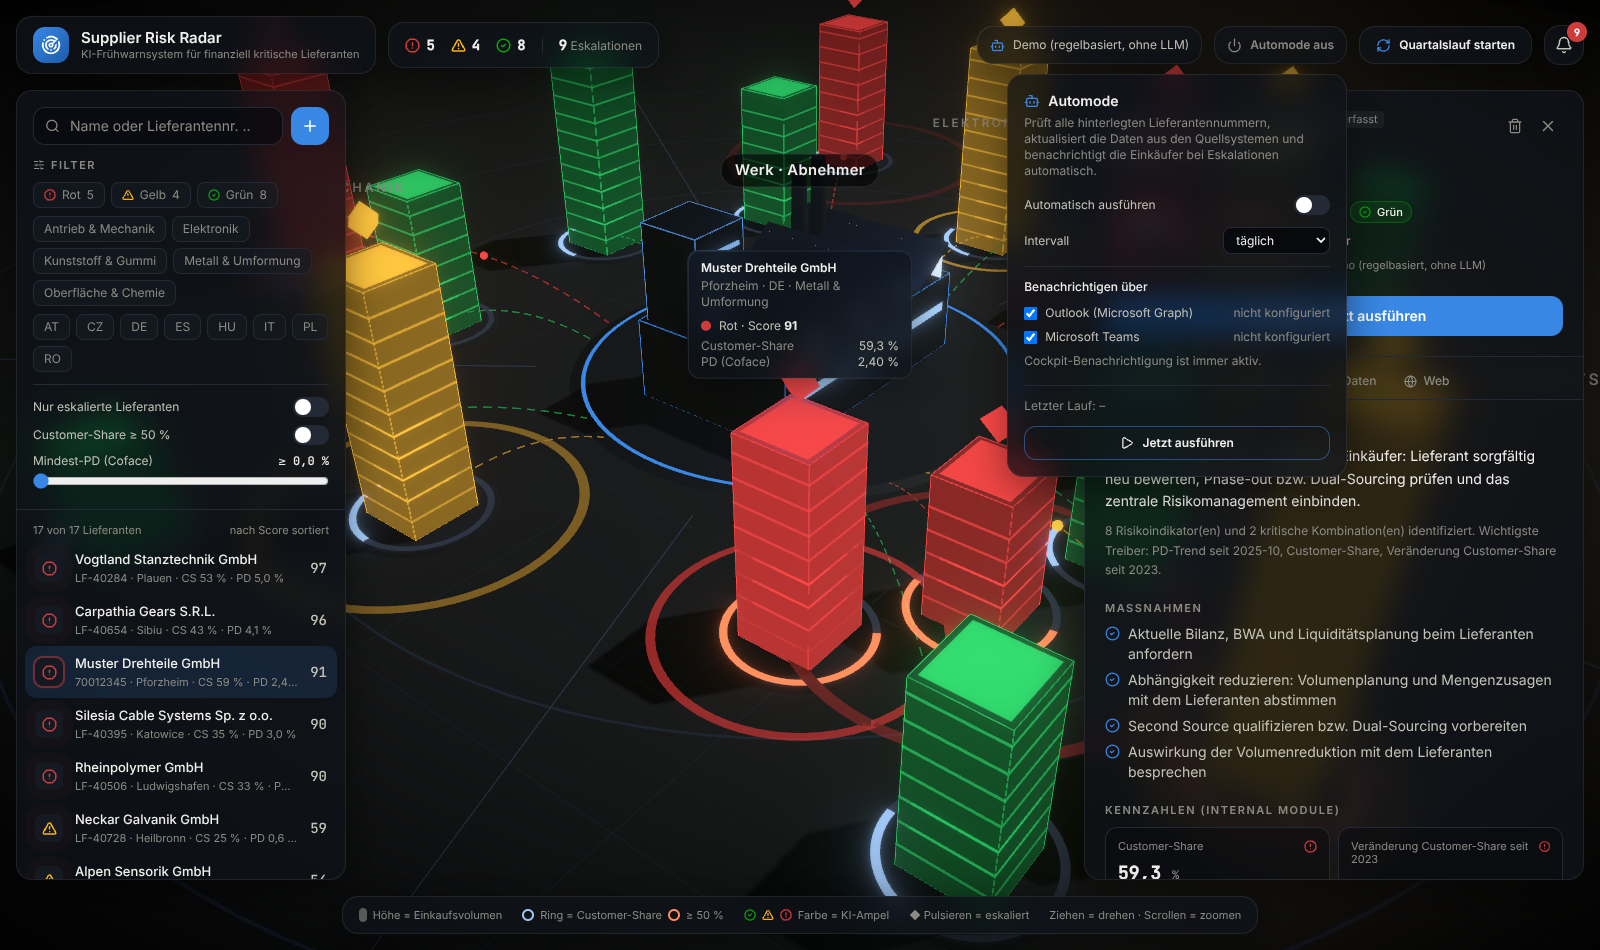
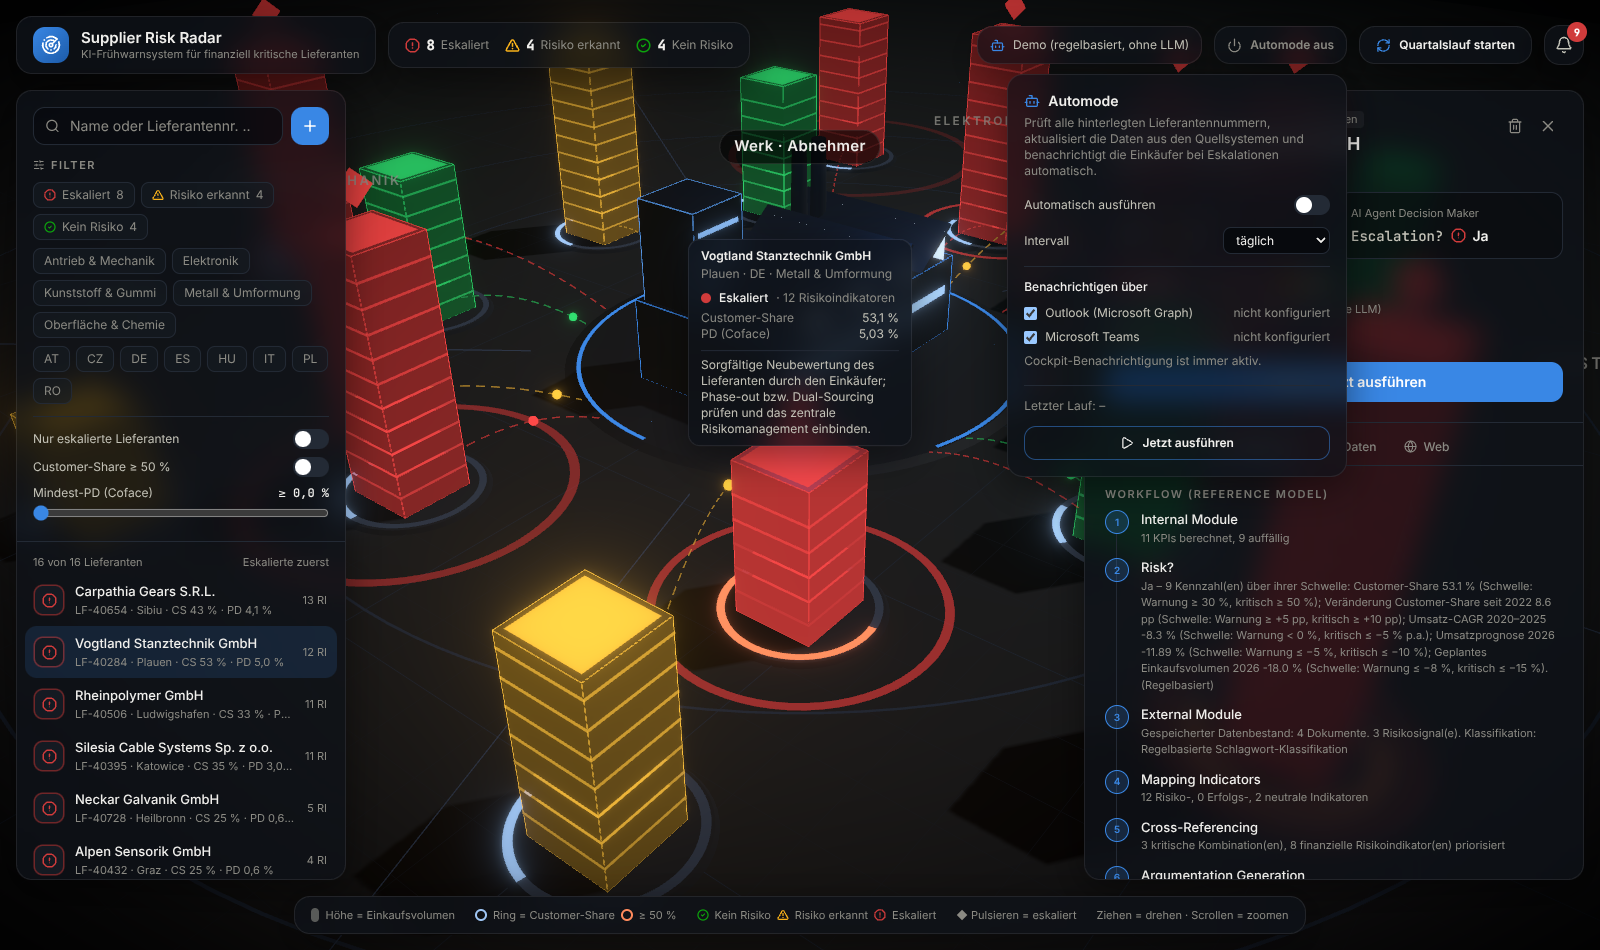
Translate README to English and refresh screenshots without score
Claude-Session: https://claude.ai/code/session_01H4xoAewvQAtDazvVLpxAxV

diff --git a/README.md b/README.md
@@ -1,125 +1,131 @@
 # Supplier Risk Radar
 
-**KI-Frühwarnsystem für finanziell kritische Lieferanten.** Es setzt das Referenzmodell aus diesem Paper als lauffähige Software um:
+**AI-based early-warning system for financially critical suppliers.** It turns the reference model from the following paper into working software:
 
-> Claussen, C.; Haas, F.; Schätter, F.: *Early Detection of Financially Critical Suppliers with Artificial Intelligence: A Design-Oriented Case Study in Automotive Purchasing.* Hochschule Pforzheim.
+> Claussen, C.; Haas, F.; Schätter, F.: *Early Detection of Financially Critical Suppliers with Artificial Intelligence: A Design-Oriented Case Study in Automotive Purchasing.* Pforzheim University.
 
-Ein Agentensystem bewertet alle hinterlegten Lieferanten. Es verknüpft interne Kennzahlen (Customer-Share, Umsatzentwicklung, Planvolumen, Coface-PD, Qualität) mit externen Web-Informationen. Wie im Paper entscheidet der Agent „Internal Data“ zuerst **„Risk?“**. Liegt ein Risiko vor, erzeugt das Decision Module eine **nachvollziehbare Argumentationskette** und entscheidet **„Escalation?“**, mit einer handlungsorientierten Empfehlung. Einen numerischen Score gibt es bewusst nicht. Bei einer Eskalation wird der verantwortliche Einkäufer benachrichtigt, im Automode auch per Outlook und Teams.
+An agent system evaluates every supplier on record. It combines internal indicators (customer share, revenue development, planned purchasing volumes, Coface probability of default, quality) with information from the web. As described in the paper, the *Internal Data* agent first decides **"Risk?"**. If a risk is present, the Decision Module builds a **traceable chain of argumentation** and decides **"Escalation?"**, together with an action-oriented recommendation. There is deliberately no numeric score. When a case is escalated, the responsible buyer is notified, in auto mode also via Outlook and Teams.
 
-Das 3D-Cockpit zeigt das Werk des Abnehmers in der Mitte und die Lieferanten als Gebäude ringsum, gruppiert nach Warengruppe. Du kannst nach Name oder Lieferantennummer suchen, filtern und neue Lieferanten direkt anlegen.
+The 3D cockpit shows the buying organisation's plant in the centre and the suppliers as buildings around it, grouped by commodity. Users can search by name or supplier number, filter the supplier base and add new suppliers directly.
+
+*The user interface is in German.*
 
 ![Cockpit](docs/cockpit.png)
 
-| Lieferant anlegen | Automode |
+| AI agents: workflow and decisions | Web research with Claude (online version) |
 |---|---|
-| ![Lieferant anlegen](docs/supplier-form.png) | ![Automode](docs/automode.png) |
+| ![AI agents](docs/agents.png) | ![Web research](docs/web-research.png) |
 
-## Zwei Varianten
+| Adding a supplier | Auto mode |
+|---|---|
+| ![Adding a supplier](docs/supplier-form.png) | ![Auto mode](docs/automode.png) |
 
-| | Server-Version | Online-Version (claude.ai-Artefakt) |
+## Two variants
+
+| | Server version | Online version (claude.ai artifact) |
 |---|---|---|
-| Start | `docker compose up` bzw. Python + Node | Link öffnen, keine Installation |
-| KI-Agenten | Claude-API, Ollama (offline) oder regelbasiert | Claude über das eigene claude.ai-Konto oder regelbasiert |
-| Web-Signale | Live-Crawling | Recherche-Prompt → Claude-Chat mit Websuche → Antwort einfügen |
-| SAP/ERP, Outlook, Teams, Automode | ✅ | – |
+| Start | `docker compose up`, or Python + Node | Open a link, no installation |
+| AI agents | Claude API, Ollama (offline) or rule-based | Claude via the viewer's own claude.ai account, or rule-based |
+| Web signals | Live crawling | Research prompt → Claude chat with web search → paste the answer back |
+| SAP/ERP, Outlook, Teams, auto mode | ✅ | – |
 
-Gebaut wird die Online-Version mit `cd frontend && npm run build:artifact`. Alle Unterschiede und wo sie im Code stecken stehen in [`docs/ARTIFACT_VARIANT.md`](docs/ARTIFACT_VARIANT.md).
+The online version is built with `cd frontend && npm run build:artifact`. All differences, and where they live in the code, are listed in [`docs/ARTIFACT_VARIANT.md`](docs/ARTIFACT_VARIANT.md).
 
-## Vom Paper zur Software
+## From paper to software
 
-| Paper (Abbildung 2–4) | Umsetzung |
+| Paper (Figures 2–4) | Implementation |
 |---|---|
-| **Internal Module**: Stammdaten, Spend Cube, Demand Planning, Quality Management, Risk Management | `backend/app/modules/internal_module.py`: berechnet bis zu 11 KPIs, jeweils mit Formel, Schwelle und Quelle. Fehlende Quellen werden ausgewiesen statt geraten. |
-| **External Module**: Webcrawler + AI Agent External Data | `backend/app/modules/external_module.py`: Crawling der Lieferanten-Website (beachtet robots.txt) und News-Suche; Klassifikation nach Kategorie, Signal und Schwere |
-| **Decision Module**: Mapping Indicators → Cross-Referencing → Argumentation Generation → AI Decision Making → Escalation? | `backend/app/modules/decision_module.py` + `backend/app/pipeline.py`: feste Task-Liste in genau dieser Reihenfolge, live im Cockpit verfolgbar |
+| **Internal Module**: master data, spend cube, demand planning, quality management, risk management | `backend/app/modules/internal_module.py`: computes up to 11 KPIs, each with its formula, threshold and source. Missing data sources are reported instead of guessed. |
+| **External Module**: web crawler + AI agent *External Data* | `backend/app/modules/external_module.py`: crawls the supplier's website (respecting robots.txt) and searches the news; classifies each document by category, signal and severity |
+| **Decision Module**: Mapping Indicators → Cross-Referencing → Argumentation Generation → AI Decision Making → Escalation? | `backend/app/modules/decision_module.py` + `backend/app/pipeline.py`: a fixed task list in exactly this order, which can be followed live in the cockpit |
 | Internal / External / Result Data Storage | SQLite (`backend/app/db.py`) |
-| Datenintegration aus internen Systemen über APIs | `backend/app/connectors/`: SAP S/4HANA, generisches ERP über REST, manuelle Erfassung |
-| Benachrichtigung des Einkäufers | `backend/app/notifiers/`: Cockpit, Outlook (Microsoft Graph), Microsoft Teams |
-| Regelmäßige, automatische Bewertung (z. B. quartalsweise) | `backend/app/automode.py` |
-| Offline-LLM für interne Daten | `LLM_PROVIDER=ollama` |
+| Data integration from internal systems via APIs | `backend/app/connectors/`: SAP S/4HANA, generic ERP via REST, manual entry |
+| Notification of the buyer | `backend/app/notifiers/`: cockpit, Outlook (Microsoft Graph), Microsoft Teams |
+| Regular, automated evaluation (e.g. quarterly) | `backend/app/automode.py` |
+| Offline LLM for internal data | `LLM_PROVIDER=ollama` |
 
-**Ablauf wie im Paper (Figure 2 und 4), ohne Score:**
+**Process as in the paper (Figures 2 and 4), without a score:**
 
-1. **Internal Module:** KPIs mit Formel, Schwelle und Quelle.
-2. **Risk?** (AI Agent Internal Data): Bei Nein folgt „Risikobewertung im nächsten Quartal“ und der Lauf endet. Bei Ja geht es weiter.
-3. **External Module:** Web-Signale.
-4. **Decision Module:** Mapping Indicators (Risiko-/Erfolgsindikator, deutlich/schwach) → Cross-Referencing (relativieren, abwägen, Finanzsignale vor Qualität priorisieren, Kombinationen) → Argumentation Generation → AI Decision Making: **Escalation?** + Empfehlung.
-5. **Escalation:** Ja geht an den Einkäufer, Nein in den Result Data Storage.
+1. **Internal Module:** KPIs with formula, threshold and source.
+2. **Risk?** (AI agent *Internal Data*): if no, the result is "risk evaluation next quarter" and the run ends. If yes, the run continues.
+3. **External Module:** web signals.
+4. **Decision Module:** Mapping Indicators (risk or success indicator, strong or weak) → Cross-Referencing (relativising and weighing indicators, prioritising financial over quality signals, detecting critical combinations) → Argumentation Generation → AI Decision Making: **Escalation?** plus a recommendation.
+5. **Escalation:** yes goes to the buyer, no goes to the Result Data Storage.
 
-KPIs und Prognose werden deterministisch im Code berechnet, damit jede Zahl nachvollziehbar bleibt. Die LLM-Agenten treffen die Entscheidungen und formulieren die Argumente. Ohne LLM (`LLM_PROVIDER=demo`) entscheiden transparente Regeln: Eskaliert wird bei einer kritischen Kombination oder einem finanziellen Indikator deutlich über seiner Schwelle. Qualitätsindikatoren allein führen nicht zur Eskalation.
+KPIs and forecasts are computed deterministically in code so that every figure stays traceable. The LLM agents make the decisions and formulate the arguments. Without an LLM (`LLM_PROVIDER=demo`), transparent rules decide: a case is escalated when there is a critical combination or a financial indicator clearly above its threshold. Quality indicators alone never lead to an escalation.
 
-## Lieferanten erfassen und suchen
+## Adding and finding suppliers
 
-- **Im Cockpit:** Über **＋** neben dem Suchfeld legst du einen Lieferanten an.
-  - Pflicht sind nur Lieferantennummer und Name.
-  - Optional erfasst du Kennzahlen: Spend Cube der letzten drei Jahre, Planvolumen, Coface-PD aktuell und vor 12 Monaten, Reklamationen und Liefertreue.
-  - Direkt nach dem Speichern bewerten die Agenten den Lieferanten. Fehlen Datenquellen, weist die Bewertung das sichtbar aus.
-- **Suche:** Das Suchfeld filtert nach Name und Lieferantennummer, außerdem nach Ort, Warengruppe und Einkäufer. Weitere Filter: Ergebnis (Eskaliert / Risiko erkannt / Kein Risiko), Warengruppe, Land, Eskalationen, Customer-Share ≥ 50 % und Mindest-PD.
-- **Über die API:** `POST /api/suppliers` (Stammdaten + optionale `figures`) oder `POST /api/suppliers/import` (aus einem Quellsystem, siehe unten).
+- **In the cockpit:** the **＋** button next to the search field adds a supplier.
+  - Only the supplier number and name are required.
+  - Key figures are optional: spend cube for the last three years, planned volume, current Coface PD and the value 12 months ago, complaint rate and on-time delivery.
+  - The agents evaluate the supplier immediately after saving. If data sources are missing, the assessment says so.
+- **Search:** the search field filters by name and supplier number, as well as by city, commodity and buyer. Further filters: result (escalated / risk detected / no risk), commodity, country, escalations only, customer share ≥ 50 % and minimum PD.
+- **Via the API:** `POST /api/suppliers` (master data plus optional `figures`) or `POST /api/suppliers/import` (from a source system, see below).
 
-## Schnittstellen (Backend)
+## Interfaces (backend)
 
-Die Schnittstellen zu SAP, weiteren Systemen, Outlook und Teams sind im Backend vollständig vorbereitet und per Umgebungsvariable aktivierbar. Ohne Konfiguration melden sie „nicht konfiguriert“, der Rest der App läuft normal weiter.
+The interfaces to SAP, other systems, Outlook and Teams are fully prepared in the backend and are activated through environment variables. Without configuration they report "not configured" and the rest of the application keeps running.
 
-⚠ Getestet sind sie bisher nur gegen simulierte Antworten, nicht gegen echte SAP- oder Microsoft-365-Systeme.
+⚠ So far they have only been tested against simulated responses, not against live SAP or Microsoft 365 systems.
 
-### Quellsysteme: Lieferantennummern suchen
+### Source systems: searching supplier numbers
 
-Jedes System implementiert `SourceConnector` (`backend/app/connectors/base.py`):
+Every system implements `SourceConnector` (`backend/app/connectors/base.py`):
 
-| Methode | Zweck |
+| Method | Purpose |
 |---|---|
-| `search(query)` | Lieferanten nach Nummer oder Name suchen |
-| `get_master(number)` | Stammdaten zu einer Lieferantennummer |
-| `get_internal_data(number)` | Kennzahlen für das Internal Module (Format siehe unten) |
+| `search(query)` | Find suppliers by number or name |
+| `get_master(number)` | Master data for a supplier number |
+| `get_internal_data(number)` | Key figures for the Internal Module (format below) |
 
-| Connector | ID | Konfiguration | Stand |
+| Connector | ID | Configuration | Status |
 |---|---|---|---|
-| Cockpit (manuell erfasst) | `local` | – | aktiv |
-| SAP S/4HANA | `sap` | `SAP_BASE_URL`, `SAP_CLIENT`, `SAP_USER`, `SAP_PASSWORD` | Suche und Stammdaten über OData `API_BUSINESS_PARTNER/A_Supplier`. Kennzahlen sind unternehmensspezifisch (Einkaufsinfosätze, Bestellhistorie, IBP/BW, QM-Meldungen); die Zuordnung ergänzt man in `get_internal_data`. |
-| Beliebiges System über REST | `erp` | `ERP_NAME`, `ERP_BASE_URL`, `ERP_TOKEN` | erwartet `GET /suppliers?q=`, `GET /suppliers/{nr}`, `GET /suppliers/{nr}/risk-data` |
+| Cockpit (manual entry) | `local` | – | active |
+| SAP S/4HANA | `sap` | `SAP_BASE_URL`, `SAP_CLIENT`, `SAP_USER`, `SAP_PASSWORD` | Search and master data via OData `API_BUSINESS_PARTNER/A_Supplier`. Key figures are company-specific (purchasing info records, purchase order history, IBP/BW, QM notifications); their mapping is added in `get_internal_data`. |
+| Any system via REST | `erp` | `ERP_NAME`, `ERP_BASE_URL`, `ERP_TOKEN` | expects `GET /suppliers?q=`, `GET /suppliers/{no}`, `GET /suppliers/{no}/risk-data` |
 
-Ein neues System anbinden heißt: eine Klasse von `SourceConnector` ableiten und in `connectors/__init__.py` registrieren.
+Connecting a new system means deriving a class from `SourceConnector` and registering it in `connectors/__init__.py`.
 
 API:
 
 ```http
-GET  /api/sources                                    # registrierte Systeme + Status
-GET  /api/sources/search?q=7001&source=sap&source=erp # Suche, auf Quellsysteme filterbar
+GET  /api/sources                                    # registered systems and their status
+GET  /api/sources/search?q=7001&source=sap&source=erp # search, filterable by source system
 POST /api/suppliers/import  {"source": "sap", "number": "100200", "buyer_email": "…"}
 ```
 
-### Benachrichtigungen: Outlook & Teams
+### Notifications: Outlook & Teams
 
-| Kanal | ID | Konfiguration |
+| Channel | ID | Configuration |
 |---|---|---|
-| Cockpit (Glocke) | `inapp` | – |
-| Outlook über Microsoft Graph `sendMail` | `outlook` | App-Registrierung in Entra ID mit Application-Permission `Mail.Send` (Admin-Consent; per Application Access Policy auf das Absender-Postfach beschränken) → `MS_TENANT_ID`, `MS_CLIENT_ID`, `MS_CLIENT_SECRET`, `OUTLOOK_SENDER` |
-| Microsoft Teams (Adaptive Card) | `teams` | Im Kanal: *Workflows → „Post to a channel when a webhook request is received“* → URL als `TEAMS_WEBHOOK_URL` |
+| Cockpit (bell icon) | `inapp` | – |
+| Outlook via Microsoft Graph `sendMail` | `outlook` | App registration in Entra ID with the application permission `Mail.Send` (admin consent; restrict it to the sender mailbox with an application access policy) → `MS_TENANT_ID`, `MS_CLIENT_ID`, `MS_CLIENT_SECRET`, `OUTLOOK_SENDER` |
+| Microsoft Teams (Adaptive Card) | `teams` | In the channel: *Workflows → "Post to a channel when a webhook request is received"* → URL as `TEAMS_WEBHOOK_URL` |
 
-Die Mail geht an die E-Mail-Adresse des Einkäufers aus den Stammdaten. Mail und Teams-Karte enthalten Zusammenfassung, Empfehlung, Maßnahmen und einen Direktlink (`APP_BASE_URL/?supplier=…`). Jeder Zustellversuch wird mit Status protokolliert (`GET /api/notifications`).
+The e-mail goes to the buyer's address from the master data. Both the e-mail and the Teams card contain the summary, the recommendation, the measures and a direct link (`APP_BASE_URL/?supplier=…`). Every delivery attempt is logged with its status (`GET /api/notifications`).
 
-### Automode
+### Auto mode
 
-Der Automode prüft in einem einstellbaren Intervall **alle hinterlegten Lieferantennummern**. Für jeden Lieferanten macht er drei Dinge:
+At a configurable interval, auto mode checks **every supplier number on record**. For each supplier it:
 
-1. aktualisiert Stammdaten und Kennzahlen aus dem jeweiligen Quellsystem,
-2. führt die komplette Agenten-Pipeline aus,
-3. schickt bei einer Eskalation automatisch eine Mail und/oder Teams-Nachricht an den verantwortlichen Einkäufer.
+1. refreshes master data and key figures from the respective source system,
+2. runs the complete agent pipeline,
+3. sends an e-mail and/or Teams message to the responsible buyer whenever a case is escalated.
 
-Einschalten lässt er sich im Cockpit (Schalter „Automode“), über die API (`PUT /api/automode {"enabled": true, "interval_minutes": 1440, "channels": ["outlook","teams"]}`, sofort starten mit `POST /api/automode/run`) oder mit `AUTOMODE_ENABLED=true` als Startwert.
+It can be switched on in the cockpit ("Automode" toggle), through the API (`PUT /api/automode {"enabled": true, "interval_minutes": 1440, "channels": ["outlook","teams"]}`, or start a run immediately with `POST /api/automode/run`), or with `AUTOMODE_ENABLED=true` as the initial value.
 
-## Schnellstart
+## Quick start
 
-### Mit Docker
+### With Docker
 
 ```bash
-cp .env.example .env          # LLM, SAP, Microsoft 365 … nach Bedarf eintragen
+cp .env.example .env          # add LLM, SAP, Microsoft 365 … settings as needed
 docker compose up --build
 # → http://localhost:8000
 ```
 
-### Entwicklung
+### Development
 
 ```bash
 # Backend
@@ -128,7 +134,7 @@ python -m venv .venv && source .venv/bin/activate
 pip install -r requirements.txt
 uvicorn app.main:app --reload --port 8000
 
-# Frontend (zweites Terminal)
+# Frontend (second terminal)
 cd frontend
 npm install
 npm run dev
@@ -137,45 +143,45 @@ npm run dev
 
 Tests: `cd backend && pytest`
 
-Alle Einstellungen stehen kommentiert in [`.env.example`](.env.example). Mit `SEED_DEMO_DATA=false` startet das System ohne die fiktiven Demo-Lieferanten.
+All settings are documented in [`.env.example`](.env.example). With `SEED_DEMO_DATA=false` the system starts without the fictitious demo suppliers.
 
-## Datenformat Internal Module
+## Internal Module data format
 
-So liefern Quellsysteme die Kennzahlen (`get_internal_data` bzw. `GET /suppliers/{nr}/risk-data`). Alle Blöcke sind optional:
+This is how source systems deliver key figures (`get_internal_data` or `GET /suppliers/{no}/risk-data`). Every block is optional:
 
 ```jsonc
 {
   "as_of": "2025-12",
-  "revenue":  { "2023": 40.1, "2024": 41.0, "2025": 39.2 },  // Lieferantenumsatz, Mio. €
-  "purchase": { "2023": 12.3, "2024": 13.0, "2025": 14.1 },  // unser Einkaufsvolumen (Spend Cube)
-  "plan_snapshots": [                                          // Planstände aus der Bedarfsplanung
+  "revenue":  { "2023": 40.1, "2024": 41.0, "2025": 39.2 },  // supplier revenue, EUR m
+  "purchase": { "2023": 12.3, "2024": 13.0, "2025": 14.1 },  // our purchasing volume (spend cube)
+  "plan_snapshots": [                                          // plan versions from demand planning
     { "date": "2025-Q3", "volumes": { "2026": 13.5, "2027": 13.9 } }
   ],
-  "pd_history": [ { "date": "2025-05-01", "pd": 0.8 } ],      // Coface-Ratingstände
-  "quality": { "2025": { "ppm": 45, "otd": 0.97 } }           // Reklamationen, Liefertreue
+  "pd_history": [ { "date": "2025-05-01", "pd": 0.8 } ],      // Coface rating history
+  "quality": { "2025": { "ppm": 45, "otd": 0.97 } }           // complaints, on-time delivery
 }
 ```
 
-Die Schwellenwerte stehen zentral in `THRESHOLDS` (`internal_module.py`). Bis auf die 50-%-Grenze beim Customer-Share und den gelben Bereich der Coface-PD (~2 %) aus dem Paper sind es Annahmen, die an die internen Limits angepasst werden sollten. Die Priorisierung (finanziell vor extern vor operativ) und die Eskalationsregel stehen in `decision_module.py`.
+All thresholds are defined in `THRESHOLDS` (`internal_module.py`). Apart from the 50 % customer-share limit and the yellow area of the Coface PD (~2 %) taken from the paper, they are assumptions that should be aligned with the organisation's internal limits. The prioritisation (financial before external before operational) and the escalation rule are in `decision_module.py`.
 
-## API-Übersicht
+## API overview
 
-| Methode | Pfad | Zweck |
+| Method | Path | Purpose |
 |---|---|---|
-| GET | `/api/suppliers?q=` | Lieferanten mit aktueller Bewertung, Suche nach Name/Nummer |
-| POST | `/api/suppliers` | Lieferant anlegen (und sofort bewerten) |
-| PUT / DELETE | `/api/suppliers/{id}` | Lieferant ändern / löschen |
-| GET | `/api/suppliers/{id}` | Bericht und Verlauf |
-| POST | `/api/suppliers/{id}/analyze` | Pipeline ausführen (Server-Sent Events) |
-| POST | `/api/cycle` | Alle Lieferanten bewerten (Server-Sent Events) |
-| GET | `/api/sources`, `/api/sources/search` | Quellsysteme und Suche |
-| POST | `/api/suppliers/import` | Lieferant aus Quellsystem übernehmen |
-| GET | `/api/channels`, `/api/notifications` | Kanäle und Zustellprotokoll |
-| GET / PUT | `/api/automode` | Automode-Status und -Einstellungen |
-| POST | `/api/automode/run` | Automode-Lauf sofort starten |
+| GET | `/api/suppliers?q=` | Suppliers with their latest assessment, search by name or number |
+| POST | `/api/suppliers` | Add a supplier (and evaluate it immediately) |
+| PUT / DELETE | `/api/suppliers/{id}` | Update / delete a supplier |
+| GET | `/api/suppliers/{id}` | Report and history |
+| POST | `/api/suppliers/{id}/analyze` | Run the pipeline (server-sent events) |
+| POST | `/api/cycle` | Evaluate all suppliers (server-sent events) |
+| GET | `/api/sources`, `/api/sources/search` | Source systems and search |
+| POST | `/api/suppliers/import` | Import a supplier from a source system |
+| GET | `/api/channels`, `/api/notifications` | Channels and delivery log |
+| GET / PUT | `/api/automode` | Auto mode status and settings |
+| POST | `/api/automode/run` | Start an auto mode run immediately |
 
-## Grenzen
+## Limitations
 
-- Die im Paper gezeigte Genauigkeit stammt aus einem einzigen Fall. Das belegt die Machbarkeit, aber keine allgemein gültige Trefferquote.
-- Die Anbindung an SAP, weitere Systeme und Microsoft 365 muss gegen die jeweilige Unternehmensumgebung getestet werden.
-- Für SAP fehlt noch die unternehmensspezifische Zuordnung der Transaktionsdaten.
+- The accuracy shown in the paper comes from a single case. It demonstrates feasibility, not a generally valid detection rate.
+- The connections to SAP, other systems and Microsoft 365 still need to be tested in the respective corporate environment.
+- For SAP, the company-specific mapping of transactional data is still to be added.
